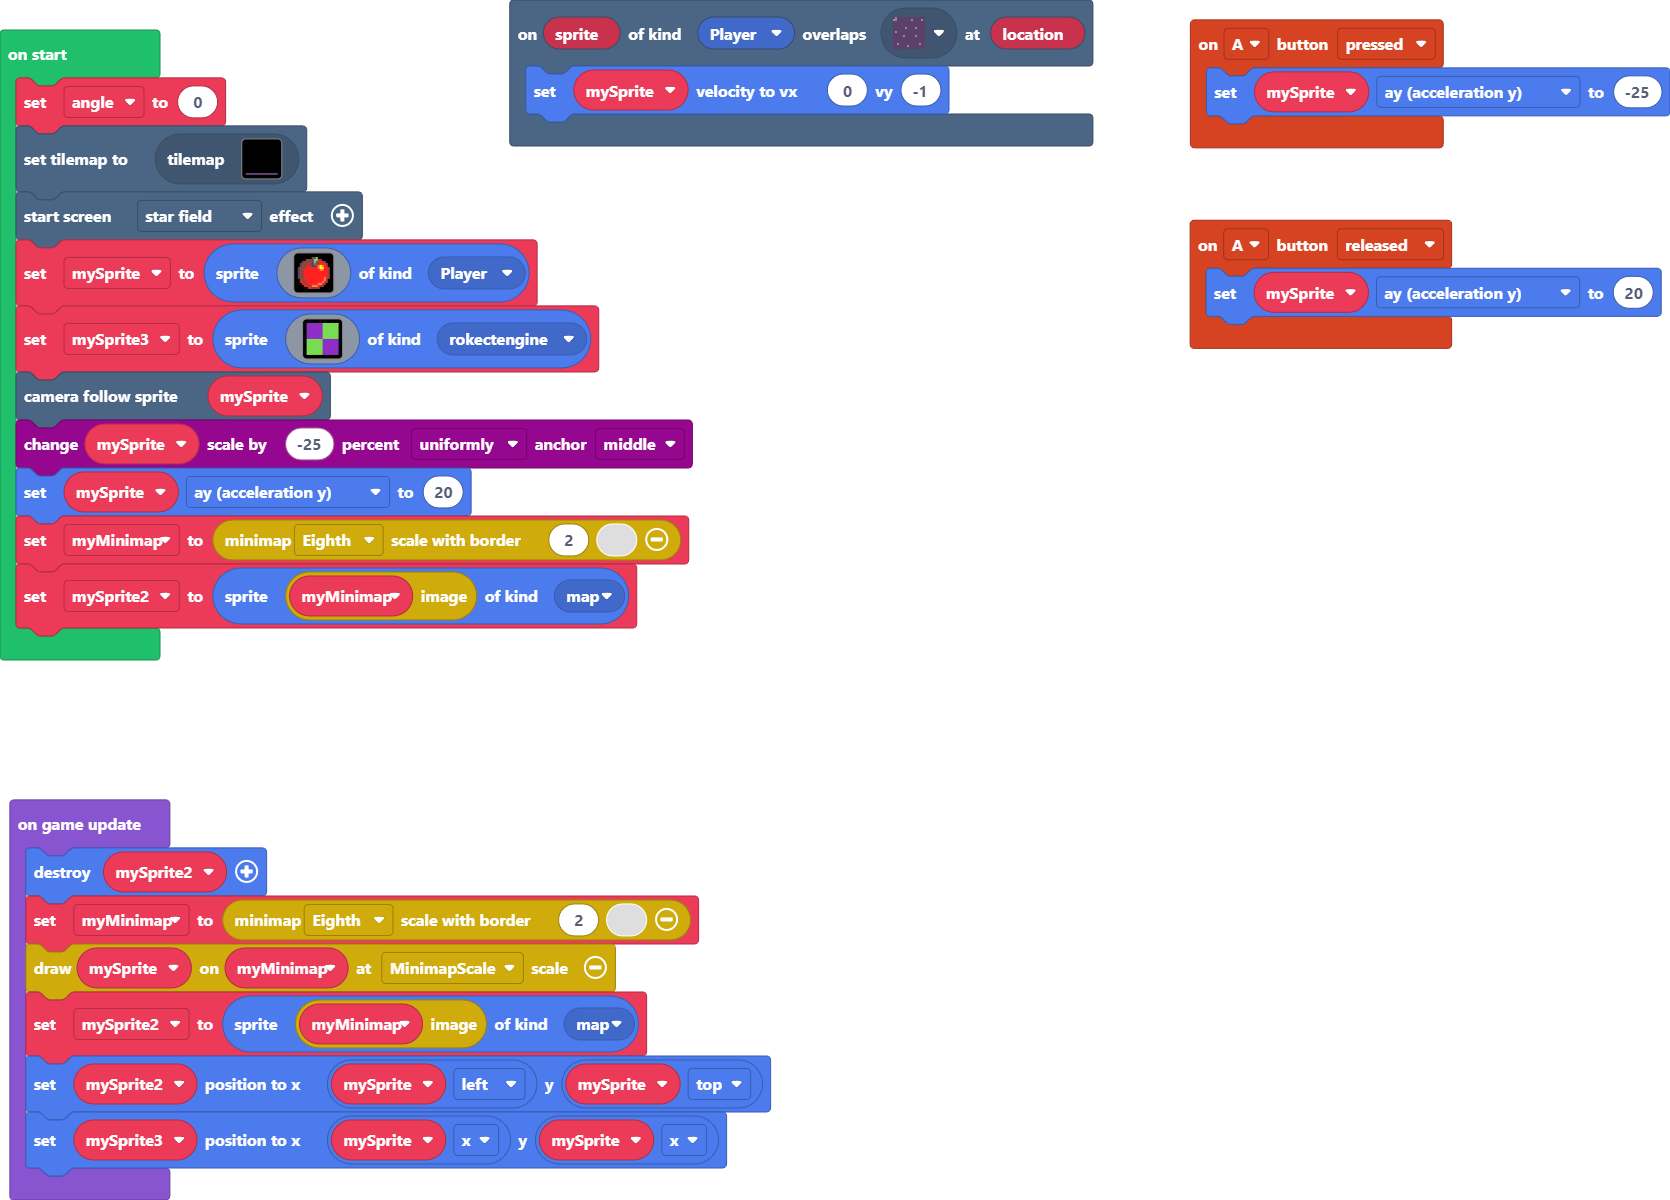
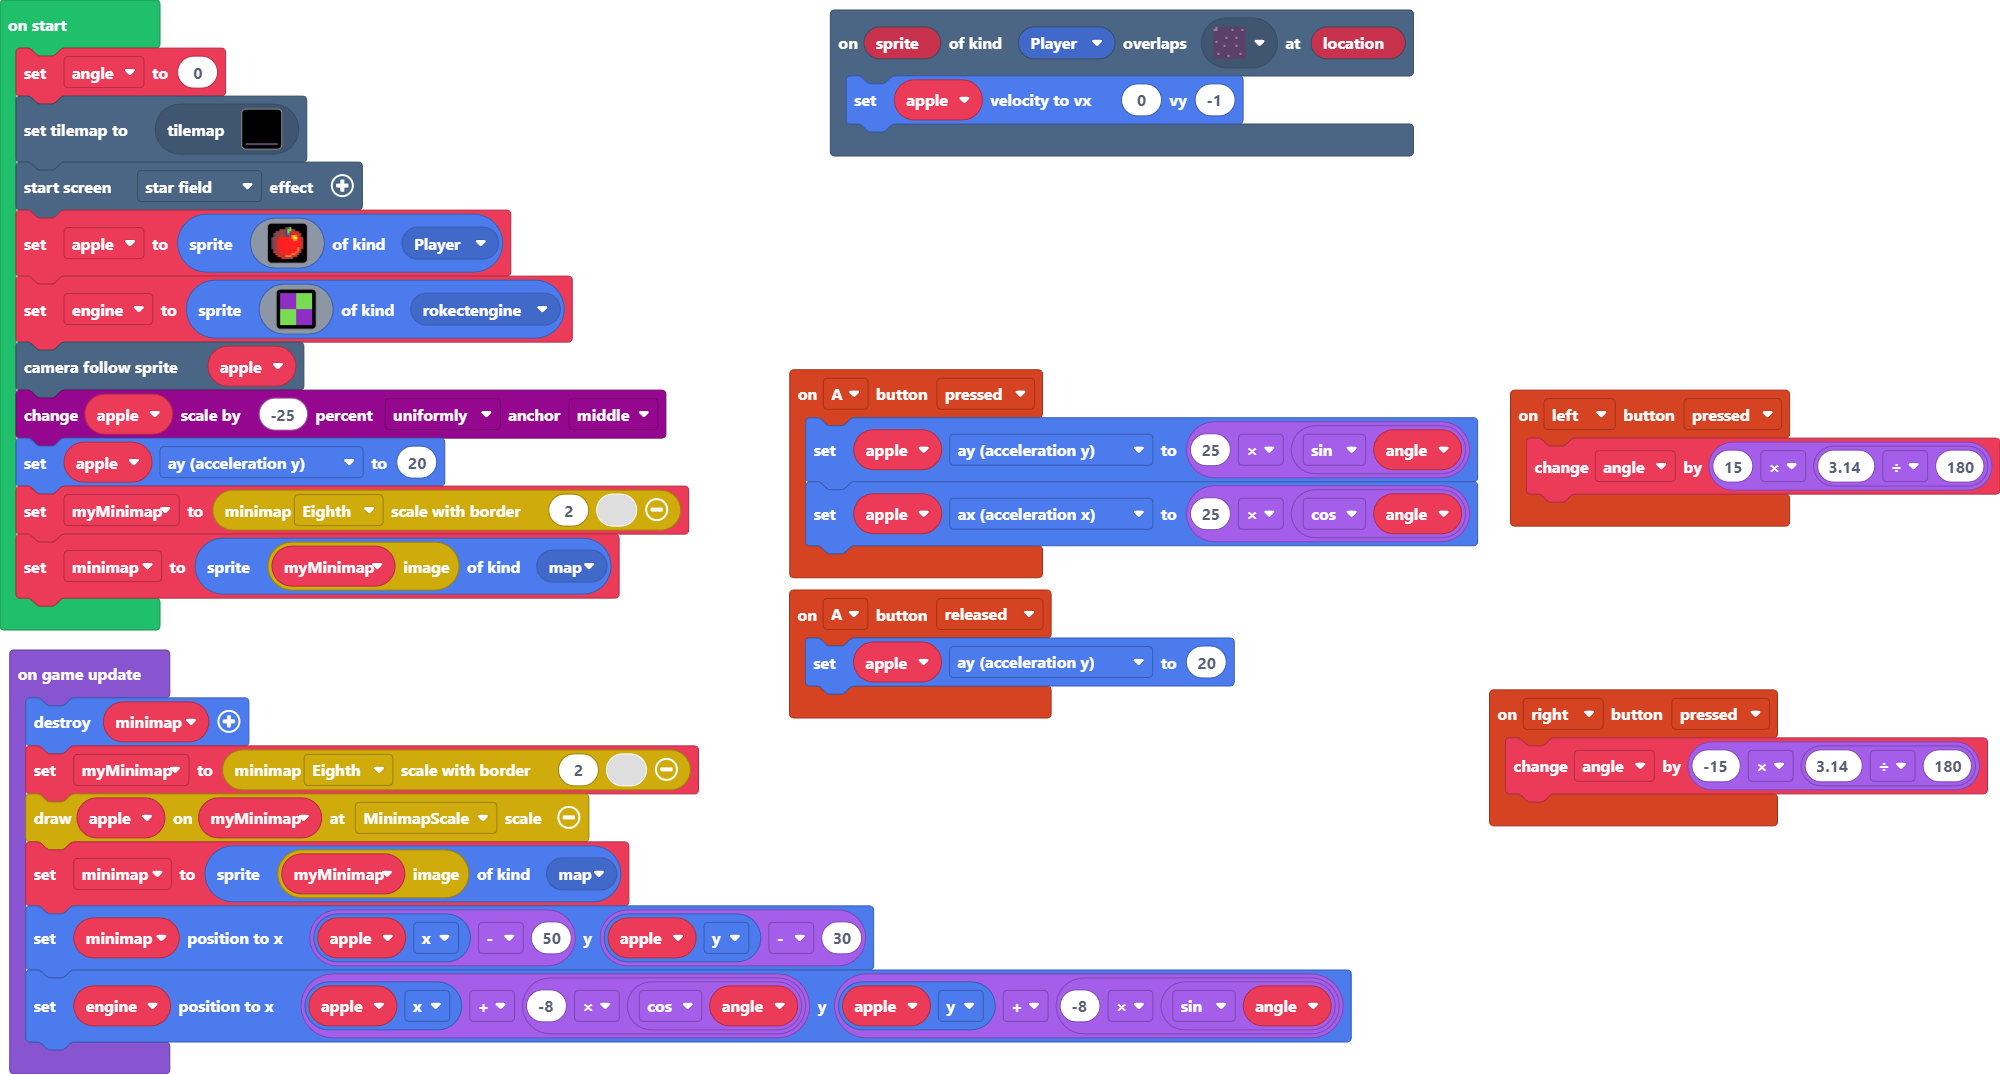
movement works

diff --git a/main.ts b/main.ts
@@ -3,19 +3,27 @@ namespace SpriteKind {
     export const rokectengine = SpriteKind.create()
 }
 controller.A.onEvent(ControllerButtonEvent.Pressed, function () {
-    mySprite.ay = -25
+    apple.ay = 25 * Math.sin(angle)
+    apple.ax = 25 * Math.cos(angle)
+})
+controller.left.onEvent(ControllerButtonEvent.Pressed, function () {
+    angle += 15 * (3.14 / 180)
+})
+controller.right.onEvent(ControllerButtonEvent.Pressed, function () {
+    angle += -15 * (3.14 / 180)
 })
 controller.A.onEvent(ControllerButtonEvent.Released, function () {
-    mySprite.ay = 20
+    apple.ay = 20
 })
 scene.onOverlapTile(SpriteKind.Player, sprites.dungeon.darkGroundSouthEast1, function (sprite, location) {
-    mySprite.setVelocity(0, -1)
+    apple.setVelocity(0, -1)
 })
-let mySprite: Sprite = null
+let apple: Sprite = null
 let angle = 0
+angle = 0
 tiles.setCurrentTilemap(tilemap`level1`)
 effects.starField.startScreenEffect()
-mySprite = sprites.create(img`
+apple = sprites.create(img`
     . . . . . . . e c 7 . . . . . . 
     . . . . e e e c 7 7 e e . . . . 
     . . c e e e e c 7 e 2 2 e e . . 
@@ -33,20 +41,20 @@ mySprite = sprites.create(img`
     . . . 2 2 e e 4 4 4 2 e e . . . 
     . . . . . 2 2 e e e e . . . . . 
     `, SpriteKind.Player)
-let mySprite3 = sprites.create(img`
+let engine = sprites.create(img`
     a 7 
     7 a 
     `, SpriteKind.rokectengine)
-scene.cameraFollowSprite(mySprite)
-scaling.scaleByPercent(mySprite, -25, ScaleDirection.Uniformly, ScaleAnchor.Middle)
-mySprite.ay = 20
+scene.cameraFollowSprite(apple)
+scaling.scaleByPercent(apple, -25, ScaleDirection.Uniformly, ScaleAnchor.Middle)
+apple.ay = 20
 let myMinimap = minimap.minimap(MinimapScale.Eighth, 2, 0)
-let mySprite2 = sprites.create(minimap.getImage(myMinimap), SpriteKind.map)
+let minimap2 = sprites.create(minimap.getImage(myMinimap), SpriteKind.map)
 game.onUpdate(function () {
-    mySprite2.destroy()
+    minimap2.destroy()
     myMinimap = minimap.minimap(MinimapScale.Eighth, 2, 0)
-    minimap.includeSprite(myMinimap, mySprite, MinimapSpriteScale.MinimapScale)
-    mySprite2 = sprites.create(minimap.getImage(myMinimap), SpriteKind.map)
-    mySprite2.setPosition(mySprite.left, mySprite.top)
-    mySprite3.setPosition(mySprite.x, mySprite.x)
+    minimap.includeSprite(myMinimap, apple, MinimapSpriteScale.MinimapScale)
+    minimap2 = sprites.create(minimap.getImage(myMinimap), SpriteKind.map)
+    minimap2.setPosition(apple.x - 50, apple.y - 30)
+    engine.setPosition(apple.x + -8 * Math.cos(angle), apple.y + -8 * Math.sin(angle))
 })
